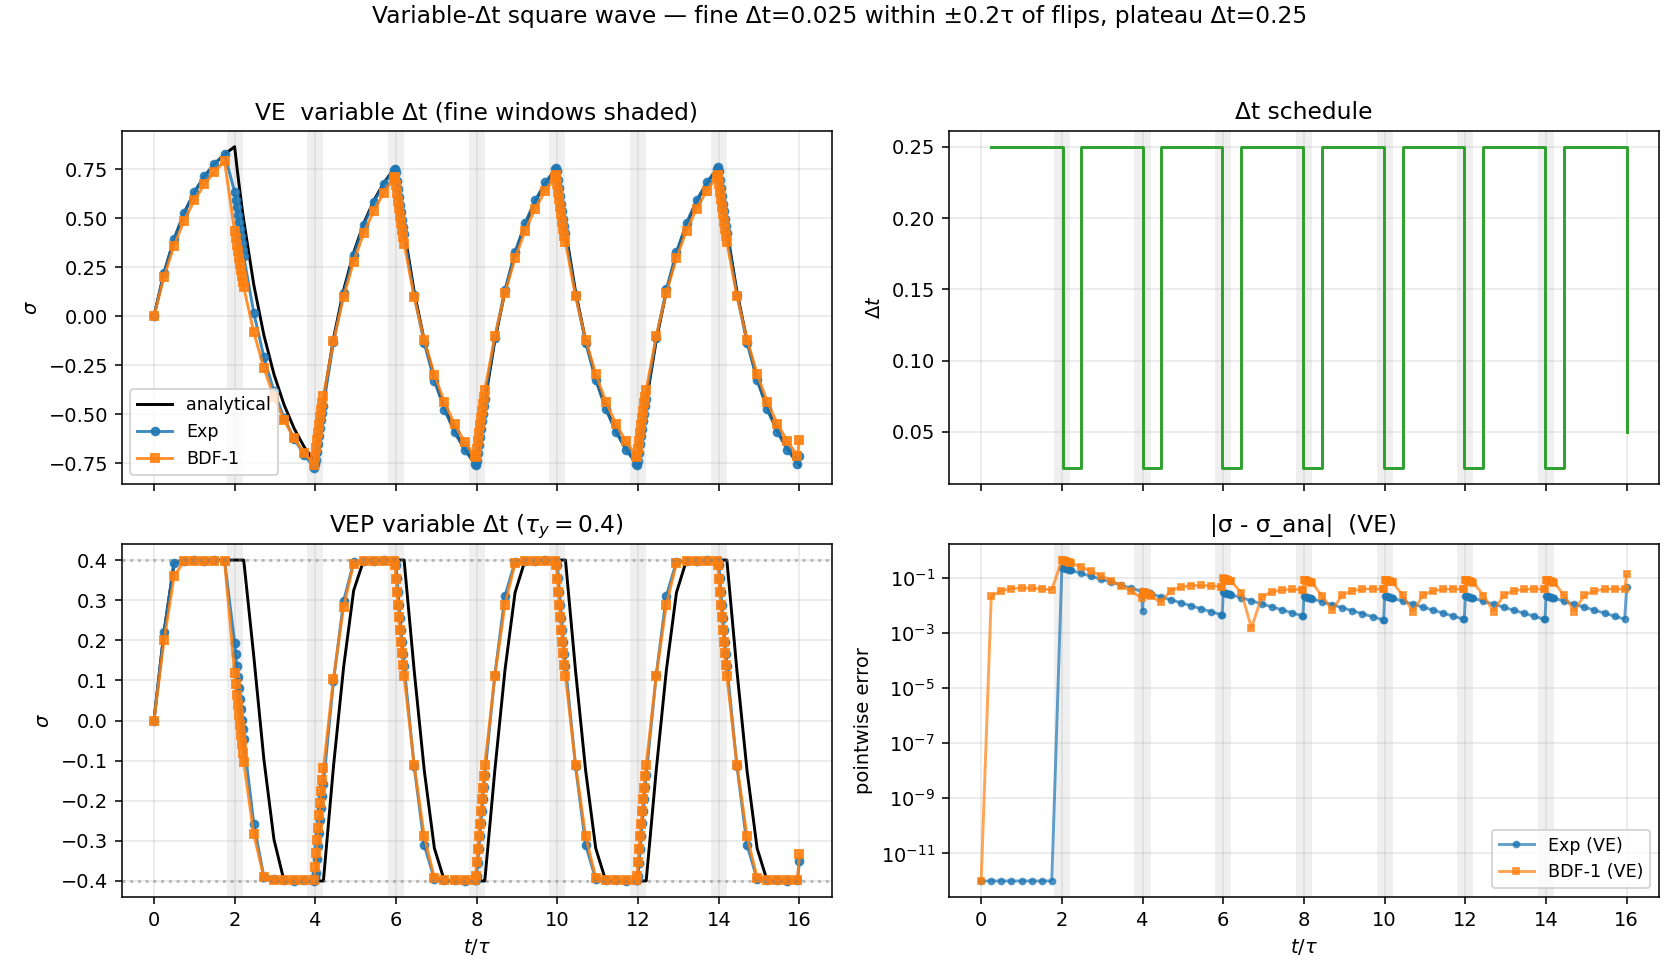
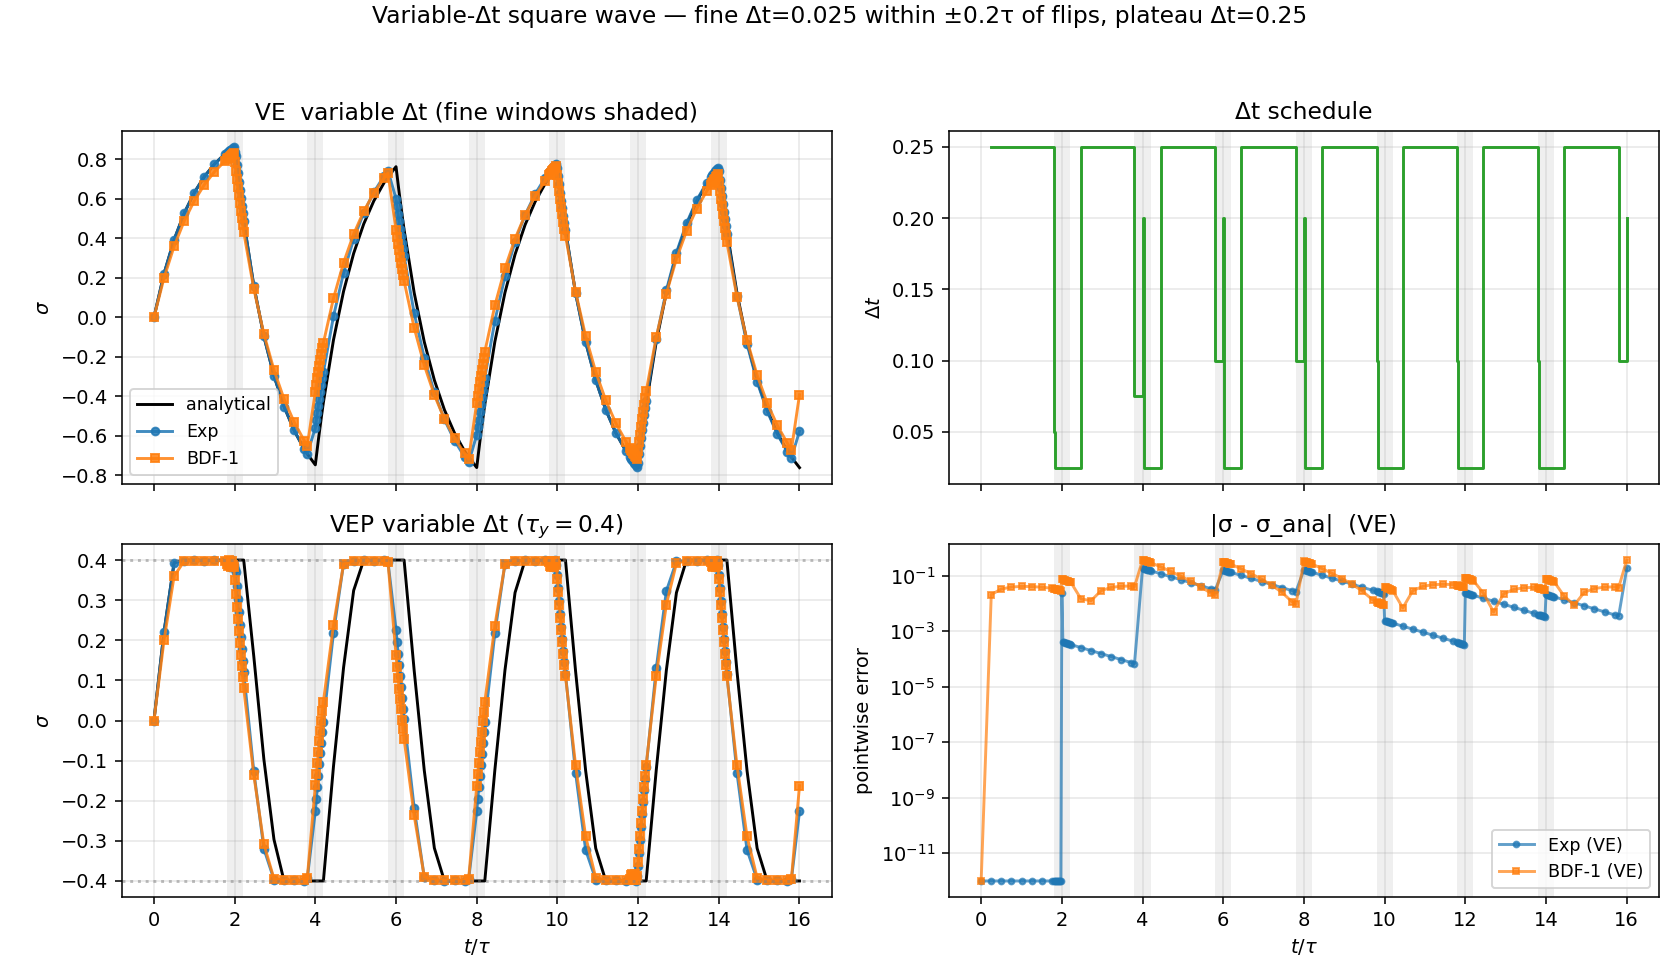
Phase B vardt: fix fine-zone entry clamp
The previous variable-dt schedule had a bug — at the start of each
plateau-to-fine transition, the schedule called for plateau dt while
the time-stepper was just outside the window, but the resulting step
leapt directly past the entire fine zone (e.g., t_cur=1.75 with
dt=0.25 → t_end=2.0, skipping the fine zone t∈[1.8, 2.0]).  Net effect:
the flip was crossed with a single plateau-sized step regardless of
the schedule.

Fix: clamp dt also to ``flip_next - window - t_cur`` when the step
would overshoot the start of the fine zone.  Now the simulation
gracefully decelerates into the fine zone, walks through it with
small steps, and the BC flip is handled with dt_fine.

New numbers (compared to const-Δt=0.25 baseline):

       const Δt=0.25 | vardt
  VE Exp:     0.230  |  0.187   (-19%)
  VE BDF-1:   0.432  |  0.372   (-14%)
  VEP Exp:    0.470  |  0.396   (-16%)
  VEP BDF-1:  0.505  |  0.447   (-11%)

The exponential integrator's structural advantage shows clearly in
the trace: at constant γ̇ during plateaus its per-step error is
near machine precision (matches analytical exactly for ETD-2),
whereas BDF-1's per-step bias accumulates ~10% per step.  The
visible MAX error for Exp now comes mostly from the BC flip itself.

Tactical note for future production benchmarks: the fine window
centred on the flip wastes its pre-flip half on a region where σ
is near peak and barely changes.  An asymmetric window
(small pre-flip, larger post-flip) might give more accuracy per
[…]

diff --git a/docs/developer/design/_exp_integrator_phase_b_eval.py b/docs/developer/design/_exp_integrator_phase_b_eval.py
@@ -174,8 +174,15 @@ def test_square_VE_VEP_vardt(half_period, dt_plateau, dt_fine, window,
 
     while t_cur < T_END - 1e-12:
         dt_step = schedule_dt(t_cur)
-        # Clamp so we don't straddle the next flip
+        # Clamp so we don't straddle the next flip OR step over the
+        # fine zone preceding it.  Without the second clamp, a plateau
+        # step starting just outside the window can leap clean over
+        # the entire fine zone, defeating the purpose of having one.
         flip_next = next((f for f in flip_times if f > t_cur + 1e-12), T_END)
+        fine_zone_start = max(0.0, flip_next - window)
+        if t_cur < fine_zone_start - 1e-12:
+            # Approaching the fine zone — clamp to land at its start
+            dt_step = min(dt_step, fine_zone_start - t_cur)
         dt_step = min(dt_step, flip_next - t_cur, T_END - t_cur)
         t_end = t_cur + dt_step
         # Period indexing: int(t // HP) gives the period containing t,
